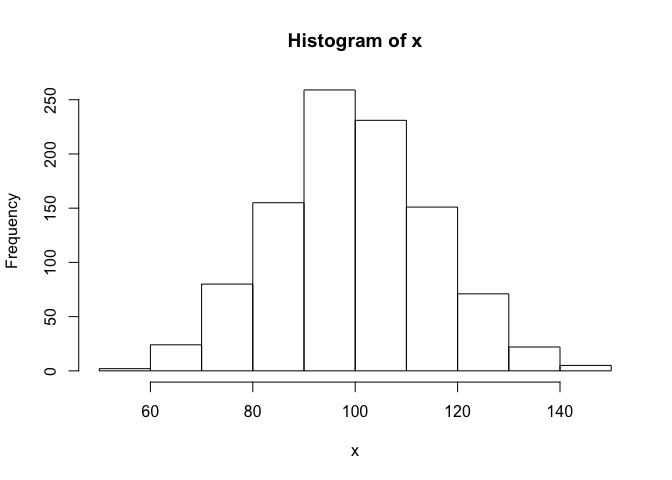
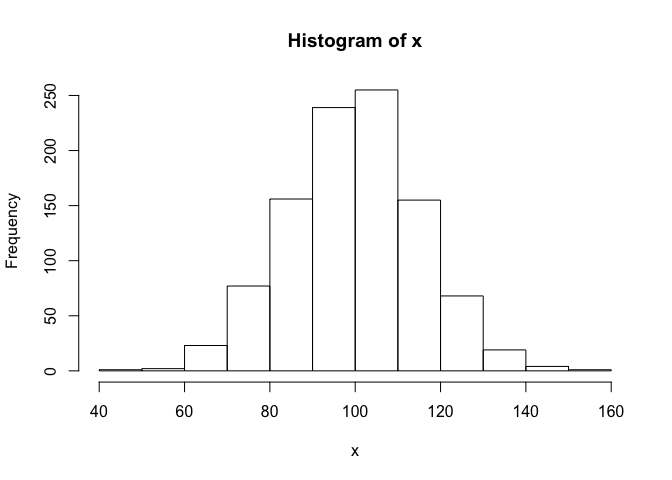
fix link

diff --git a/Tutorial_6_Simulating_data.md b/Tutorial_6_Simulating_data.md
@@ -26,28 +26,28 @@ Generate random values from a normal distribution
 rnorm(n = 10) # 10 values (values from standard normal distribution: mean 0, sd 1)
 ```
 
-    ##  [1]  1.58188155 -0.35536269 -0.11305349 -0.06464051 -0.75514289
-    ##  [6] -1.10487855  0.98521874  0.63832900  0.86510889  0.76785454
+    ##  [1]  0.8477690  0.6354139 -0.9916428  0.9549779  0.3629186 -1.4496490
+    ##  [7] -1.1360180 -0.8094310 -0.3367988  1.5619097
 
 ``` r
 rnorm(n = 100, mean = 100, sd = 15) # 100 values from a normal distribution (mean 100, sd = 15)
 ```
 
-    ##   [1]  78.04936  99.50138  59.63304 100.85478  96.90804  76.94553  95.63313
-    ##   [8]  77.36157 114.44721  92.51570 114.04754 129.13923  98.71398 105.42377
-    ##  [15] 108.14881  87.43734  99.08550  94.35206  89.53104 105.19141  89.93340
-    ##  [22] 112.20107  85.89531 122.54001  74.53852 106.03746 107.86406 111.21071
-    ##  [29]  94.89827  95.26554 116.70382 125.31597 103.40073 122.14597  95.72300
-    ##  [36] 100.34938  87.19389  82.68160 106.82811  95.72578  95.36466 108.53076
-    ##  [43] 110.49463  80.75613 115.32315 111.14432  89.65943 103.53056 122.73448
-    ##  [50]  88.77138  83.03387  84.00035 112.27671 106.37090  91.73340  86.51162
-    ##  [57]  90.07962  89.27224  88.62896 113.90552  71.33942 105.41166  90.26834
-    ##  [64]  74.84516  92.92816  87.07334 116.16360  91.07856 100.70607  84.96223
-    ##  [71]  99.67103 104.57183  90.19126  93.76207  69.23009 101.05848 121.09933
-    ##  [78] 118.29944  96.76962 123.84823 114.16311 104.94704 110.01658 119.71836
-    ##  [85]  93.97957  94.44575 101.48519  75.03665  94.97480 101.72513 111.25695
-    ##  [92]  83.06452  72.25641 112.44824 100.11460  94.50237 112.16784 115.65530
-    ##  [99] 121.40332  82.38720
+    ##   [1] 108.61496 113.50543  86.58595  84.87790 106.13955  95.14666 104.57999
+    ##   [8]  99.75707 122.13782 100.24487  95.62853  96.21966 101.23567  90.65478
+    ##  [15]  99.46575  81.02504  88.23201  70.05598  94.79280 110.14183 120.56409
+    ##  [22] 123.71502 110.25227  85.40904  98.04528  63.77162  85.07142 107.73592
+    ##  [29] 126.59412  90.95393  57.29918 116.97163  90.58807  98.50388  95.11641
+    ##  [36] 102.29881  91.61215  85.85885  86.86357  78.17557  98.74421  85.48422
+    ##  [43] 101.62678 124.50967  89.91287  96.16041  91.96039 100.10152  99.69056
+    ##  [50]  99.01479  68.42615  68.48989  97.55059 103.55450  96.92452  97.10441
+    ##  [57] 101.14161 105.12934 108.89520  78.28871 113.95217 100.96597 117.14261
+    ##  [64] 112.77211 114.30957  96.39756  78.88632  86.49208 112.94404  83.49054
+    ##  [71] 115.45647 116.99769  82.14367 105.29631  92.88621 118.21089  59.46632
+    ##  [78] 118.81410 107.00212 106.94752 108.26599 123.32676 125.67225 100.12964
+    ##  [85]  74.85904 118.32804 116.89074  99.04053 104.08793  89.83206 127.13295
+    ##  [92] 102.51215  82.30248 115.69585 108.29386  98.81678  76.45135  96.79764
+    ##  [99]  86.52836  78.28423
 
 ``` r
 x <- rnorm(n = 1000, mean = 100, sd = 15) # 1000 values from a normal distribution (mean 100, sd = 15)
@@ -80,46 +80,46 @@ print(fakeData, n = Inf)
     ## # A tibble: 40 x 2
     ##    group value
     ##    <chr> <dbl>
-    ##  1 a      67.4
-    ##  2 a     103. 
-    ##  3 a      86.3
-    ##  4 a     119. 
-    ##  5 a      94.7
-    ##  6 a     107. 
-    ##  7 a     111. 
-    ##  8 a     105. 
-    ##  9 a      90.2
-    ## 10 a     126. 
-    ## 11 a     100. 
-    ## 12 a     110. 
-    ## 13 a     113. 
-    ## 14 a      92.0
-    ## 15 a     101. 
-    ## 16 a     110. 
-    ## 17 a     106. 
-    ## 18 a     132. 
-    ## 19 a     112. 
-    ## 20 a     107. 
-    ## 21 b     108. 
-    ## 22 b     155. 
-    ## 23 b     127. 
-    ## 24 b     133. 
-    ## 25 b     114. 
-    ## 26 b     131. 
-    ## 27 b     122. 
-    ## 28 b     114. 
-    ## 29 b      81.7
-    ## 30 b     126. 
-    ## 31 b     137. 
-    ## 32 b     135. 
-    ## 33 b     142. 
-    ## 34 b      96.4
-    ## 35 b      88.6
-    ## 36 b      95.0
-    ## 37 b     122. 
-    ## 38 b      88.4
-    ## 39 b      79.5
-    ## 40 b     132.
+    ##  1 a     131. 
+    ##  2 a     105. 
+    ##  3 a     119. 
+    ##  4 a     107. 
+    ##  5 a     101. 
+    ##  6 a      97.5
+    ##  7 a     103. 
+    ##  8 a     121. 
+    ##  9 a     119. 
+    ## 10 a      70.9
+    ## 11 a      86.3
+    ## 12 a      92.9
+    ## 13 a     117. 
+    ## 14 a     103. 
+    ## 15 a      89.5
+    ## 16 a      85.1
+    ## 17 a     108. 
+    ## 18 a      82.5
+    ## 19 a     104. 
+    ## 20 a     129. 
+    ## 21 b     106. 
+    ## 22 b     137. 
+    ## 23 b     134. 
+    ## 24 b     145. 
+    ## 25 b     119. 
+    ## 26 b     115. 
+    ## 27 b     136. 
+    ## 28 b     118. 
+    ## 29 b     121. 
+    ## 30 b     118. 
+    ## 31 b      82.1
+    ## 32 b     127. 
+    ## 33 b     140. 
+    ## 34 b     117. 
+    ## 35 b      81.4
+    ## 36 b      87.0
+    ## 37 b     113. 
+    ## 38 b     153. 
+    ## 39 b     102. 
+    ## 40 b     101.
 
 Will group differences be significant?
 
@@ -132,13 +132,13 @@ simulateResults
     ##  Welch Two Sample t-test
     ## 
     ## data:  value by group
-    ## t = -2.011, df = 32.857, p-value = 0.05259
+    ## t = -2.4524, df = 36.092, p-value = 0.01916
     ## alternative hypothesis: true difference in means is not equal to 0
     ## 95 percent confidence interval:
-    ##  -23.561386   0.139182
+    ##  -25.810913  -2.445207
     ## sample estimates:
     ## mean in group a mean in group b 
-    ##        104.6895        116.4006
+    ##        103.4998        117.6278
 
 ``` r
 source("https://raw.githubusercontent.com/hauselin/Rcode/master/summaryh.R")
@@ -160,7 +160,7 @@ summaryh(simulateResults) # my custom function
 ```
 
     ##                              results
-    ## 1: t(33) = −2.01, p = .053, r = 0.33
+    ## 1: t(36) = −2.45, p = .019, r = 0.38
 
 Manipulating strings
 --------------------
@@ -214,7 +214,7 @@ grepl(pattern = "oo", x = text, ignore.case = F)
 
 ### Manipulating string resources
 
--   (stringr tutorial/vignette)\[<https://cran.r-project.org/web/packages/stringr/vignettes/stringr.html>\]
+-   [stringr tutorial/vignette](https://cran.r-project.org/web/packages/stringr/vignettes/stringr.html)
 
 the apply family in R (looping without for loops)
 -------------------------------------------------
